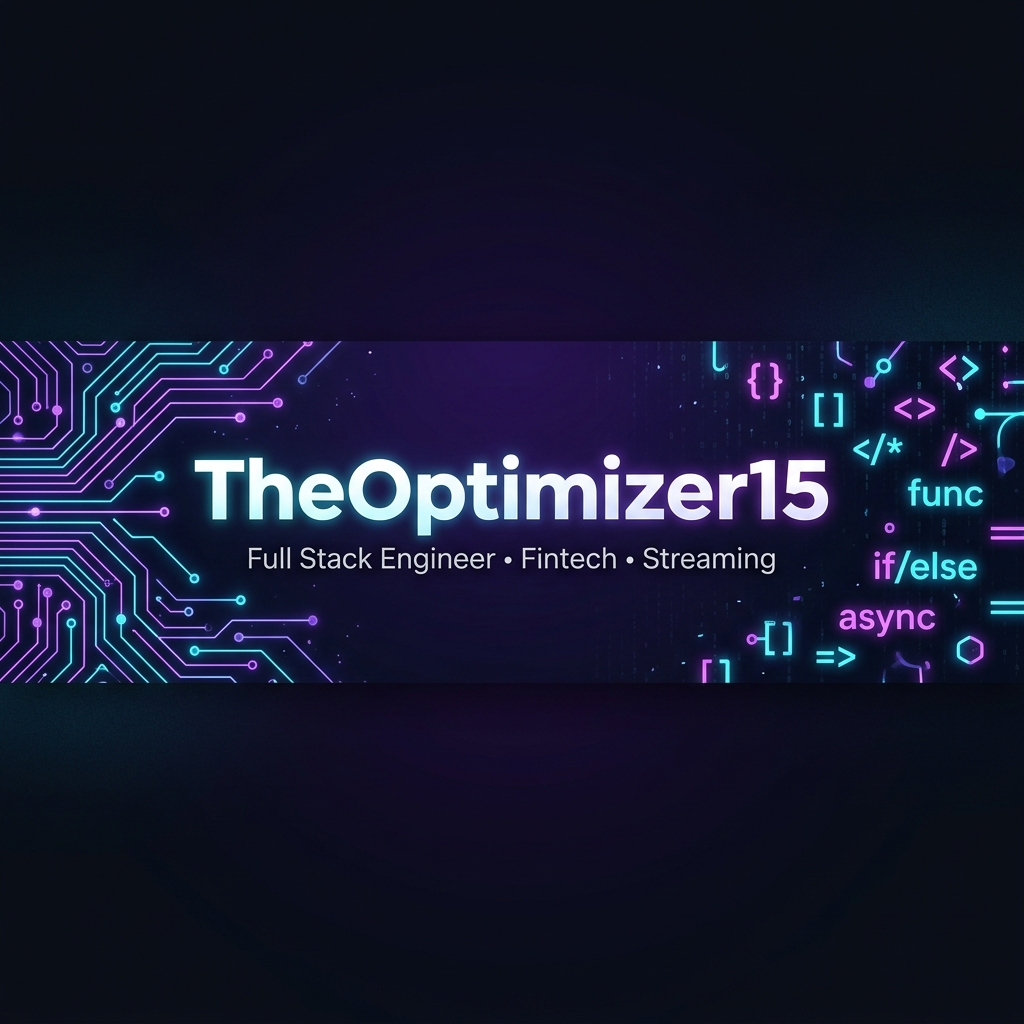
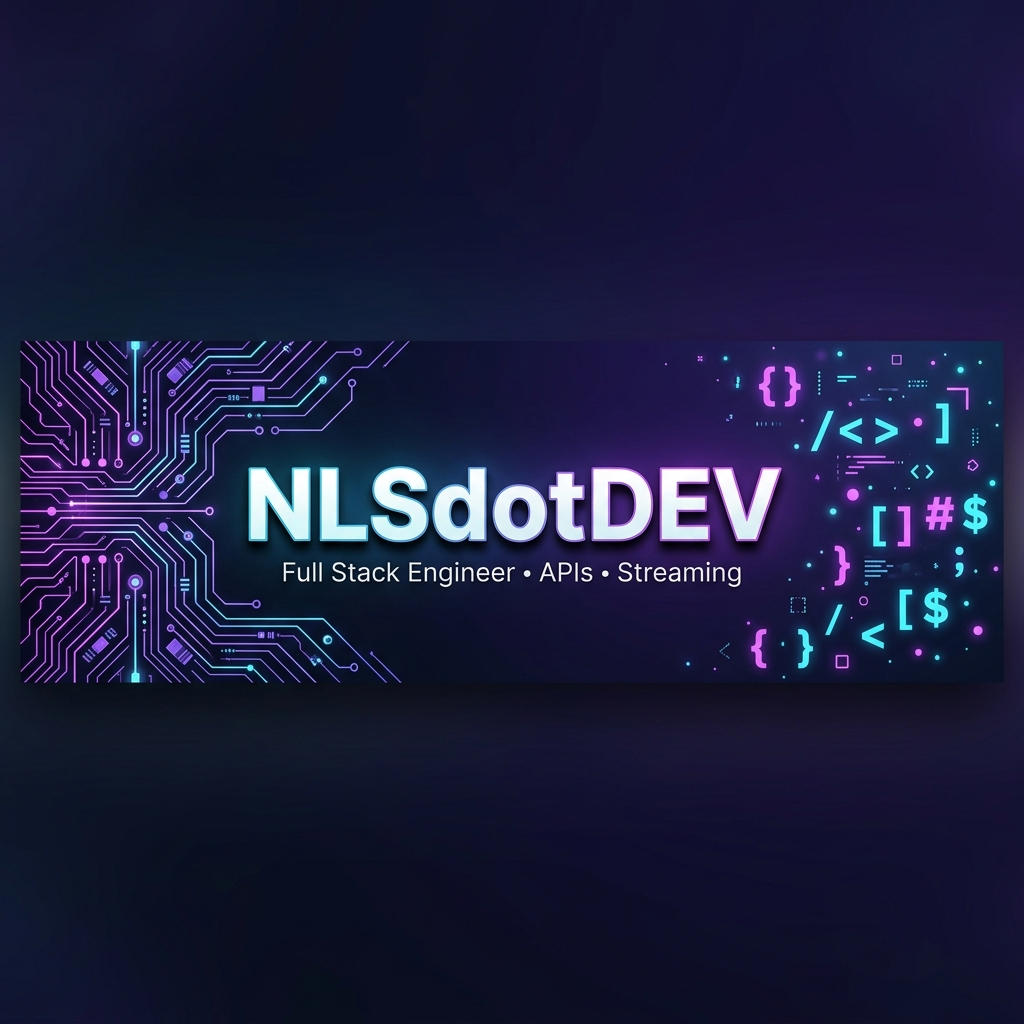
fix: correct name to NLSdotDEV, update tech stack, project descriptions and remove inaccuracies

diff --git a/README.md b/README.md
@@ -1,13 +1,13 @@
 <div align="center">
 
-<img src="banner.png" alt="TheOptimizer15 — Full Stack Engineer" width="100%" style="border-radius:16px;" />
+<img src="banner.png" alt="NLSdotDEV — Full Stack Engineer" width="100%" />
 
 </div>
 
 <!-- Animated typing SVG -->
 <div align="center">
   <a href="https://git.io/typing-svg">
-    <img src="https://readme-typing-svg.demolab.com?font=Fira+Code&weight=700&size=28&duration=3000&pause=800&color=A855F7&center=true&vCenter=true&multiline=false&width=700&lines=Hey+there%2C+I'm+Samuel+%F0%9F%91%8B;Full+Stack+Engineer+%7C+Fintech+Builder;Streaming+%7C+Payments+%7C+APIs;Building+systems+that+don't+break+%F0%9F%9A%80" alt="Typing SVG" />
+    <img src="https://readme-typing-svg.demolab.com?font=Fira+Code&weight=700&size=28&duration=3000&pause=800&color=A855F7&center=true&vCenter=true&width=700&lines=Hey+there%2C+I'm+Samuel+%F0%9F%91%8B;Full+Stack+Engineer+%7C+API+Architect;IPTV+%7C+Streaming+%7C+Payments;Building+systems+that+don't+break+%F0%9F%9A%80" alt="Typing SVG" />
   </a>
 </div>
 
@@ -29,25 +29,30 @@
 ### 🧠 About Me
 
 ```typescript
-const samuel = {
-  alias:     "TheOptimizer15",
+const NLSdotDEV = {
+  name:      "Samuel",
   role:      "Full Stack Engineer",
   location:  "🌍 West Africa",
-  passions:  ["Fintech", "Streaming", "API Design"],
+
+  experience: {
+    worked_at: "JEKO — a Fintech company",
+    domains:   ["API Design", "IPTV / Streaming", "Payments"],
+  },
 
   currently: {
-    building:  "NexStream — Multi-platform IPTV platform",
-    integrating: "Wave & Orange Money payment flows",
-    studying:  "Distributed systems & microservices",
+    building:    "NexStream — STB MAG → Xtream & M3U API",
+    architecting: "Qbox — Inventory tool that auto-publishes storefronts",
+    integrating:  "OAuth2, JWT, Wave Payment Gateway",
   },
 
   philosophy: "Ship fast. Observe everything. Break nothing.",
 };
 ```
 
-- 🔭 I build systems that **handle money, media & scale**
-- ⚡ Deep expertise in **payment automation** (Wave, Orange Money, JEKO)
-- 📡 Architecting **IPTV/streaming backends** with real-time dashboards
+- 🔭 I build **APIs, streaming systems and developer tools**
+- 💳 Worked at **JEKO** — a Fintech — integrating payment flows and automation
+- 📡 Turned **IPTV STB MAG** boxes into **Xtream-compatible & M3U** APIs
+- 🔐 Experienced with **OAuth2 & JWT** authentication architectures
 - 🛡 Obsessed with **observability** — structured logs, Telegram alerts, Sentry
 - 🤝 Open to **freelance & consulting** engagements
 
@@ -60,13 +65,13 @@ const samuel = {
 <table>
   <tr>
     <td width="50%">
-      <h3 align="center">⚡ NexStream</h3>
+      <h3 align="center">📡 NexStream</h3>
       <div align="center">
         <img src="https://img.shields.io/badge/Laravel-FF2D20?style=flat-square&logo=laravel&logoColor=white"/>
         <img src="https://img.shields.io/badge/PHP-777BB4?style=flat-square&logo=php&logoColor=white"/>
         <img src="https://img.shields.io/badge/MySQL-4479A1?style=flat-square&logo=mysql&logoColor=white"/>
       </div>
-      <p align="center">Multi-platform IPTV streaming service with real-time STB MAC validation, live category sync, queue-based job processing, and full Telegram observability.</p>
+      <p align="center">An API that bridges <strong>IPTV STB MAG</strong> boxes with the modern streaming world — converting MAG portal data into <strong>Xtream Codes</strong> and <strong>M3U</strong> playlists with live category sync and real-time STB MAC lifecycle management.</p>
     </td>
     <td width="50%">
       <h3 align="center">💳 Wave Sync</h3>
@@ -75,37 +80,38 @@ const samuel = {
         <img src="https://img.shields.io/badge/Puppeteer-40B5A4?style=flat-square&logo=puppeteer&logoColor=white"/>
         <img src="https://img.shields.io/badge/GraphQL-E10098?style=flat-square&logo=graphql&logoColor=white"/>
       </div>
-      <p align="center">Mobile payment automation platform. Intercepts GraphQL packets from the Wave Business Portal, automates transaction processing, and handles merchant config failures gracefully.</p>
+      <p align="center">Transforms your personal <strong>mobile Wave account</strong> into a fully functional <strong>Payment Gateway</strong>. Intercepts Wave Business Portal GraphQL packets to automate and expose payment processing as a programmable API.</p>
     </td>
   </tr>
   <tr>
     <td width="50%">
-      <h3 align="center">🗺 Poto-Map API</h3>
+      <h3 align="center">🗺 Poto-Map</h3>
       <div align="center">
         <img src="https://img.shields.io/badge/NestJS-E0234E?style=flat-square&logo=nestjs&logoColor=white"/>
         <img src="https://img.shields.io/badge/TypeScript-3178C6?style=flat-square&logo=typescript&logoColor=white"/>
         <img src="https://img.shields.io/badge/PostgreSQL-4169E1?style=flat-square&logo=postgresql&logoColor=white"/>
       </div>
-      <p align="center">Microservices-based backend for a location-aware social marketplace. Handles complex geospatial queries, service-repository pattern, and typed PHP-style domain modeling in TS.</p>
+      <p align="center">A location-based discovery platform that lets users <strong>add, find and rate local businesses</strong>. Built entirely with <strong>NestJS</strong>, featuring geospatial queries, service-repository architecture, and structured domain modeling.</p>
     </td>
     <td width="50%">
       <h3 align="center">🛒 Qbox</h3>
       <div align="center">
         <img src="https://img.shields.io/badge/React-61DAFB?style=flat-square&logo=react&logoColor=black"/>
-        <img src="https://img.shields.io/badge/Svelte-FF3E00?style=flat-square&logo=svelte&logoColor=white"/>
-        <img src="https://img.shields.io/badge/JEKO-6C47FF?style=flat-square&logoColor=white"/>
+        <img src="https://img.shields.io/badge/Next.js-000000?style=flat-square&logo=nextdotjs&logoColor=white"/>
+        <img src="https://img.shields.io/badge/NestJS-E0234E?style=flat-square&logo=nestjs&logoColor=white"/>
       </div>
-      <p align="center">Full e-commerce & inventory platform for SMEs. Integrates JEKO Direct Provider Checkout for Wave & Orange Money with a custom-branded mobile payment flow.</p>
+      <p align="center">An <strong>inventory management tool</strong> with a twist — when you create a shop inside Qbox, it <strong>automatically generates and publishes a live storefront website</strong> with your products, zero extra setup required.</p>
     </td>
   </tr>
   <tr>
     <td colspan="2">
       <h3 align="center">📱 Postufly</h3>
       <div align="center">
+        <img src="https://img.shields.io/badge/NestJS-E0234E?style=flat-square&logo=nestjs&logoColor=white"/>
         <img src="https://img.shields.io/badge/React_Native-61DAFB?style=flat-square&logo=react&logoColor=black"/>
-        <img src="https://img.shields.io/badge/Automation-00d9ff?style=flat-square"/>
+        <img src="https://img.shields.io/badge/TypeScript-3178C6?style=flat-square&logo=typescript&logoColor=white"/>
       </div>
-      <p align="center">Mobile app automating the job search and application submission process — reducing search time by 80% through intelligent filtering and workflow automation.</p>
+      <p align="center">A mobile app built with <strong>React Native + NestJS</strong> that automates the job search and application submission process — reducing manual search time by <strong>80%</strong> through intelligent filtering and workflow automation.</p>
     </td>
   </tr>
 </table>
@@ -118,24 +124,24 @@ const samuel = {
 
 ### Languages
 ![TypeScript](https://img.shields.io/badge/TypeScript-3178C6?style=for-the-badge&logo=typescript&logoColor=white)
-![PHP](https://img.shields.io/badge/PHP-777BB4?style=for-the-badge&logo=php&logoColor=white)
 ![JavaScript](https://img.shields.io/badge/JavaScript-F7DF1E?style=for-the-badge&logo=javascript&logoColor=black)
-![Python](https://img.shields.io/badge/Python-3776AB?style=for-the-badge&logo=python&logoColor=white)
-![Java](https://img.shields.io/badge/Java-ED8B00?style=for-the-badge&logo=openjdk&logoColor=white)
-![Go](https://img.shields.io/badge/Go-00ADD8?style=for-the-badge&logo=go&logoColor=white)
+![PHP](https://img.shields.io/badge/PHP-777BB4?style=for-the-badge&logo=php&logoColor=white)
 
 ### Backends & Frameworks
 ![Laravel](https://img.shields.io/badge/Laravel-FF2D20?style=for-the-badge&logo=laravel&logoColor=white)
 ![NestJS](https://img.shields.io/badge/NestJS-E0234E?style=for-the-badge&logo=nestjs&logoColor=white)
-![Node.js](https://img.shields.io/badge/Node.js-339933?style=for-the-badge&logo=nodedotjs&logoColor=white)
 ![Express](https://img.shields.io/badge/Express-000000?style=for-the-badge&logo=express&logoColor=white)
+![Fastify](https://img.shields.io/badge/Fastify-000000?style=for-the-badge&logo=fastify&logoColor=white)
 ![GraphQL](https://img.shields.io/badge/GraphQL-E10098?style=for-the-badge&logo=graphql&logoColor=white)
 
+### Auth
+![OAuth2](https://img.shields.io/badge/OAuth2-EB5424?style=for-the-badge&logo=auth0&logoColor=white)
+![JWT](https://img.shields.io/badge/JWT-000000?style=for-the-badge&logo=jsonwebtokens&logoColor=white)
+
 ### Frontend
+![Next.js](https://img.shields.io/badge/Next.js-000000?style=for-the-badge&logo=nextdotjs&logoColor=white)
 ![React](https://img.shields.io/badge/React-61DAFB?style=for-the-badge&logo=react&logoColor=black)
-![Svelte](https://img.shields.io/badge/Svelte-FF3E00?style=for-the-badge&logo=svelte&logoColor=white)
 ![React Native](https://img.shields.io/badge/React_Native-61DAFB?style=for-the-badge&logo=react&logoColor=black)
-![TailwindCSS](https://img.shields.io/badge/TailwindCSS-06B6D4?style=for-the-badge&logo=tailwindcss&logoColor=white)
 
 ### Data & Infrastructure
 ![PostgreSQL](https://img.shields.io/badge/PostgreSQL-4169E1?style=for-the-badge&logo=postgresql&logoColor=white)
@@ -143,7 +149,6 @@ const samuel = {
 ![MongoDB](https://img.shields.io/badge/MongoDB-47A248?style=for-the-badge&logo=mongodb&logoColor=white)
 ![Redis](https://img.shields.io/badge/Redis-DC382D?style=for-the-badge&logo=redis&logoColor=white)
 ![Docker](https://img.shields.io/badge/Docker-2496ED?style=for-the-badge&logo=docker&logoColor=white)
-![AWS](https://img.shields.io/badge/AWS-232F3E?style=for-the-badge&logo=amazonaws&logoColor=white)
 
 ### Observability & Tools
 ![Sentry](https://img.shields.io/badge/Sentry-362D59?style=for-the-badge&logo=sentry&logoColor=white)
@@ -178,12 +183,14 @@ const samuel = {
 
 | 🏗 Domain | 💼 What I Build |
 |:---|:---|
-| **Payment & Fintech** | Wave Business automations, GraphQL interception, Orange Money & JEKO integrations |
-| **Streaming & IPTV** | NexStream platform, STB MAC lifecycle, live category sync, real-time dashboards |
+| **IPTV / Streaming** | NexStream — STB MAG → Xtream Codes & M3U, MAC lifecycle, live sync |
+| **Payment Tools** | Wave account → Payment Gateway, JEKO integrations (worked at JEKO) |
 | **API Architecture** | Laravel & NestJS REST/GraphQL APIs, service-repository patterns, domain modeling |
+| **Auth & Security** | OAuth2 flows, JWT strategies, token refresh, protected routes |
+| **Inventory & Commerce** | Qbox — inventory management with auto-generated storefronts |
+| **Mobile & Web** | React Native apps, Next.js frontends, full-stack delivery |
 | **Observability** | Structured logs, Telegram alerting, Sentry error tracking, queue monitoring |
 | **Browser Automation** | Puppeteer workflows, reliable scrapers, multi-step form automation |
-| **MVP Development** | Rapid prototyping, full-stack delivery, React/React Native/Svelte frontends |
 
 </div>
 
